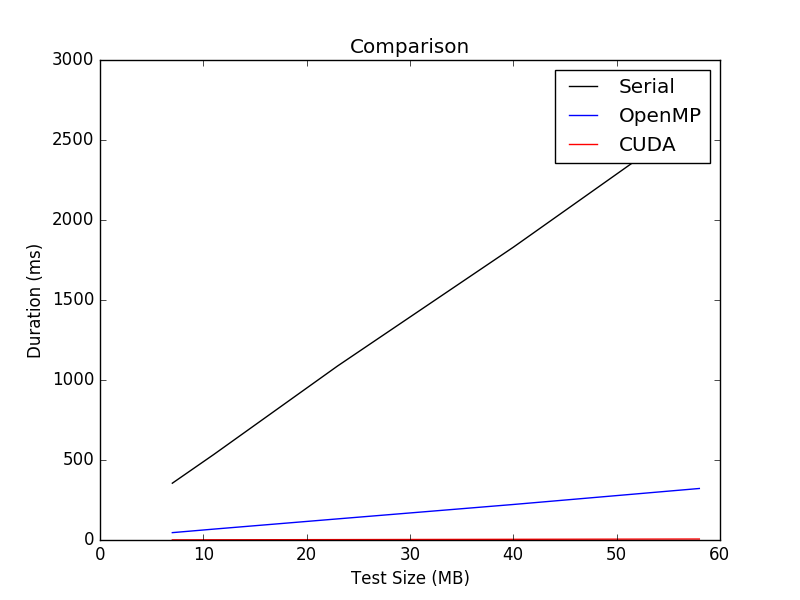
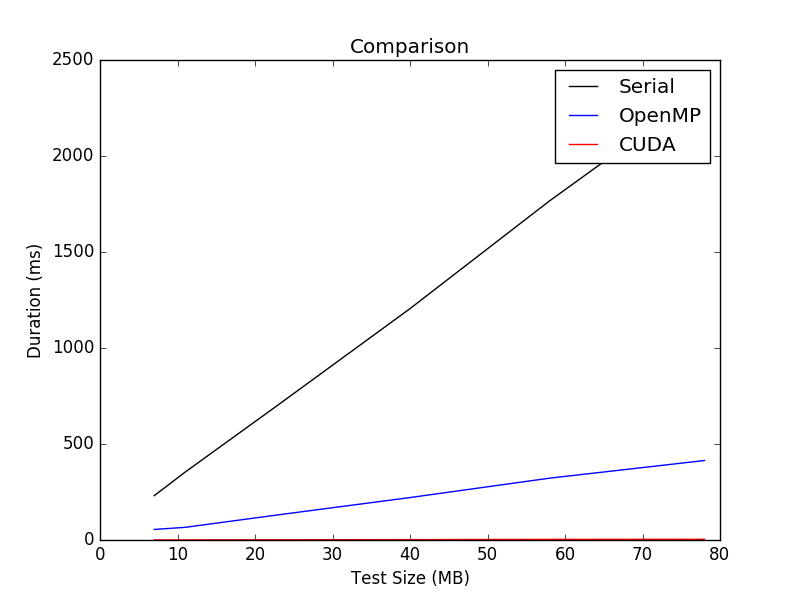
Added Plots

diff --git a/AES/main.cpp b/AES/main.cpp
@@ -7,6 +7,7 @@
 #include <vector>
 #include <chrono>
 #include <string>
+#include <omp.h>
 
 #include "Helper.hpp"
 #include "AES.hpp"
@@ -21,38 +22,26 @@ int main()
 {
 	// Define Variables
 	unsigned int iv_length = 12;
-	float microseconds = 0.0f;
 
-	string file_path_key = "C:/Users/Jan/Dropbox/Master AI/Parallel Computing/Project/key.txt";
-	string file_path_messages = "C:/Users/Jan/Dropbox/Master AI/Parallel Computing/Project/text2.txt";
+	for (int i = 6; i > 0; i--)
+	{
+		cout << endl << "Text" << i;
+		string file_path_key = "C:/Users/Jan/Dropbox/Master AI/Parallel Computing/Project/key.txt";
+		string file_path_messages = "C:/Users/Jan/Dropbox/Master AI/Parallel Computing/Project/text" + std::to_string(i) + ".txt";
 
-	vector<ByteArray> decrypted_solution;
-	vector<ByteArray> encrypted_solution;
+		vector<ByteArray> decrypted_solution;
+		vector<ByteArray> encrypted_solution;
 
-	cout << endl << "Starting!";
+		// Load data from files
+		ByteArray key = read_key(file_path_key);
+		ByteArray IV = random_byte_array(iv_length);
+		vector<ByteArray> messages = read_datafile(file_path_messages);
 
-	// Load data from files
-	ByteArray key = read_key(file_path_key);
-	ByteArray IV = random_byte_array(iv_length);
-	vector<ByteArray> messages = read_datafile(file_path_messages);
+		encrypted_solution = counter_mode(messages, key, IV);
+		decrypted_solution = counter_mode_inverse(encrypted_solution, key, IV);
 
-	// Starting Timers and Counter Mode for Encryption
-	auto start_time = std::chrono::high_resolution_clock::now();
-	encrypted_solution = counter_mode(messages, key, IV);
-	auto end_time = std::chrono::high_resolution_clock::now();
-	auto time = end_time - start_time;
-	microseconds = std::chrono::duration_cast<std::chrono::microseconds>(time).count();
-	cout << endl << "Serial Encrypted Duration: " << microseconds / 1000.0f << " (ms)." << endl;
-
-	// Starting Timers and Counter Mode for Decryption
-	start_time = std::chrono::high_resolution_clock::now();
-	decrypted_solution = counter_mode_inverse(encrypted_solution, key, IV);
-	end_time = std::chrono::high_resolution_clock::now();
-	time = end_time - start_time;
-	microseconds = std::chrono::duration_cast<std::chrono::microseconds>(time).count();
-	cout << endl << "Serial Encrypted Duration: " << microseconds / 1000.0f << " (ms)." << endl;
-
-	cout << endl << "Legit solution: " << check_vector_of_byte_arrays(decrypted_solution, messages) << endl;
+		cout << endl << "Legit solution: " << check_vector_of_byte_arrays(decrypted_solution, messages) << endl;
+	}
 
 	getchar();
 }

diff --git a/data.py b/data.py
@@ -1,9 +1,9 @@
 import matplotlib.pyplot as plt
 
-test_sizes = [7, 11, 23, 40, 58]
-serial = [355, 534, 1088, 1830, 2653]
-openmp_best = [46, 68, 132, 222, 322]
-cuda_best = [0.834400, 1.262720, 2.447360, 4.311680, 6.031840]
+test_sizes = [7, 11, 23, 40, 58, 78]
+serial = [231, 354, 704, 1205, 1766, 2349]
+openmp_best = [55, 66, 131, 221, 322, 414]
+cuda_best = [0.472064, 0.62976, 1.19296, 2.01933, 3.3495, 3.86048]
 
 plt.plot(test_sizes, serial, color="black")
 plt.plot(test_sizes, openmp_best, color="blue")
@@ -17,22 +17,22 @@ plt.ylabel('Duration (ms)')
 plt.savefig("fig1.png")
 plt.show()
 
-test_sizes = [7, 11, 23, 40, 58]
-two = [117, 191, 375, 639, 959]
-four = [61, 132, 209, 342, 498]
-six = [67, 83, 169, 276, 465]
-eight = [55, 84, 160, 257, 360]
-ten = [46, 68, 132, 222, 322]
-sixteen = [55, 80, 134, 214, 324]
+test_sizes = [7, 11, 23, 40, 58, 78]
+two = [117, 191, 375, 639, 959, 1223]
+four = [61, 132, 209, 342, 498, 659]
+six = [67, 81, 169, 276, 465, 525]
+eight = [61, 75, 163, 257, 370, 500]
+ten = [55, 66, 131, 221, 322, 414]
+twelfe = [52, 69, 117, 196, 290, 386]
 
 plt.plot(test_sizes, two, color="black")
 plt.plot(test_sizes, four, color="blue")
 plt.plot(test_sizes, six, color="yellow")
 plt.plot(test_sizes, eight, color="red")
 plt.plot(test_sizes, ten, color="orange")
-plt.plot(test_sizes, sixteen, color="pink")
+plt.plot(test_sizes, twelfe, color="pink")
 
-plt.legend(['2 Threads', '4 Threads', '6 Threads', '8 Threads', '10 Threads', '16 Threads'])
+plt.legend(['2 Threads', '4 Threads', '6 Threads', '8 Threads', '10 Threads', '12 Threads'])
 plt.title('OpenMP Comparison')
 plt.xlabel('Test Size (MB)')
 plt.ylabel('Duration (ms)')
@@ -40,10 +40,10 @@ plt.ylabel('Duration (ms)')
 plt.savefig("fig2.png")
 plt.show()
 
-test_sizes = [7, 11, 23, 40, 58]
-two = [0.937952, 1.398272, 2.741248, 4.791712, 6.740384]
-four = [0.834400, 1.262720, 2.447360, 4.311680, 6.031840]
-eight = [0.891680, 1.378176, 2.713472, 4.760992, 6.849312]
+test_sizes = [7, 11, 23, 40, 58, 78]
+two = [0.67584, 1.16941, 2.29274, 3.47546, 5.02477, 6.66522]
+four = [0.512, 0.636928, 1.19706, 2.0439, 2.94298, 3.9465]
+eight = [0.472064, 0.62976, 1.19296, 2.01933, 3.3495, 3.86048]
 
 plt.plot(test_sizes, two, color="black")
 plt.plot(test_sizes, four, color="blue")

diff --git a/AES/Mode.cpp b/AES/Mode.cpp
@@ -7,6 +7,7 @@
 #include <iostream>
 #include <fstream>
 #include <random>
+#include <chrono>
 #include <bitset>
 
 #include "Helper.hpp"
@@ -67,10 +68,19 @@ const vector<ByteArray> counter_mode(const vector<ByteArray> &messages,
 	vector<ByteArray> ctrs(messages.size(), vector<unsigned char>(KEY_BLOCK, 0x00));
 	generate_counters(ctrs, IV);
 
+	// Starting Timers and Counter Mode for Encryption
+	float microseconds = 0.0f;
+	auto start_time = std::chrono::high_resolution_clock::now();
+
 	for (size_t i = 0; i != messages.size(); ++i)
 	{
 		encrypted_messages[i] = XOR(aes.encrypt(ctrs[i]), messages[i]);
 	}
+
+	auto end_time = std::chrono::high_resolution_clock::now();
+	auto time = end_time - start_time;
+	microseconds = std::chrono::duration_cast<std::chrono::microseconds>(time).count();
+	cout << endl << "OpenMP Encrypted Duration: " << microseconds / 1000.0f << " (ms).";
 
 	return encrypted_messages;
 }
@@ -85,10 +95,19 @@ const vector<ByteArray> counter_mode_inverse(const vector<ByteArray> &encrypted_
 	vector<ByteArray> ctrs(encrypted_messages.size(), vector<unsigned char>(KEY_BLOCK, 0x00));
 	generate_counters(ctrs, IV);
 
+	// Starting Timers and Counter Mode for Encryption
+	float microseconds = 0.0f;
+	auto start_time = std::chrono::high_resolution_clock::now();
+
 	for (size_t i = 0; i != encrypted_messages.size(); ++i)
 	{
 		decrypted_messages[i] = XOR(aes.encrypt(ctrs[i]), encrypted_messages[i]);
 	}
+
+	auto end_time = std::chrono::high_resolution_clock::now();
+	auto time = end_time - start_time;
+	microseconds = std::chrono::duration_cast<std::chrono::microseconds>(time).count();
+	cout << endl << "OpenMP Decrypted Duration: " << microseconds / 1000.0f << " (ms).";
 
 	return decrypted_messages;
 }

diff --git a/AES OpenMP/Mode.cpp b/AES OpenMP/Mode.cpp
@@ -21,6 +21,8 @@ using std::vector;
 using std::string;
 using std::ifstream;
 
+#define NUM_THREADS 2
+
 /*********************************************************************/
 /*                     COUNTER MODE FUNCTIONS                        */
 /*********************************************************************/
@@ -85,7 +87,7 @@ const vector<ByteArray> counter_mode(const vector<ByteArray> &messages,
 	float microseconds = 0.0f;
 	auto start_time = std::chrono::high_resolution_clock::now();
 
-	#pragma omp parallel private(i) shared(aes, encrypted_messages, ctrs, messages, key) num_threads(16)
+	#pragma omp parallel private(i) shared(aes, encrypted_messages, ctrs, messages, key) num_threads(NUM_THREADS)
 	{
 		#pragma omp for 
 		for (i = 0; i < messages.size(); ++i)
@@ -118,7 +120,7 @@ const vector<ByteArray> counter_mode_inverse(const vector<ByteArray> &encrypted_
 	float microseconds = 0.0f;
 	auto start_time = std::chrono::high_resolution_clock::now();
 
-	#pragma omp parallel private(i) shared(aes, decrypted_messages, ctrs, encrypted_messages, key) num_threads(16)
+	#pragma omp parallel private(i) shared(aes, decrypted_messages, ctrs, encrypted_messages, key) num_threads(NUM_THREADS)
 	{
 		#pragma omp for 
 		for (i = 0; i < encrypted_messages.size(); ++i)

diff --git a/AES CUDA/AES.h b/AES CUDA/AES.h
@@ -11,9 +11,6 @@
 
 #define AES_BITS 128
 
-#define BLOCKS_PER_LAUNCH 5
-#define THREADS_PER_BLOCK 512
-
 #if AES_BITS == 128  
 	#define NUM_ROUNDS 10
 	#define SUB_KEYS (NUM_ROUNDS + 1)
